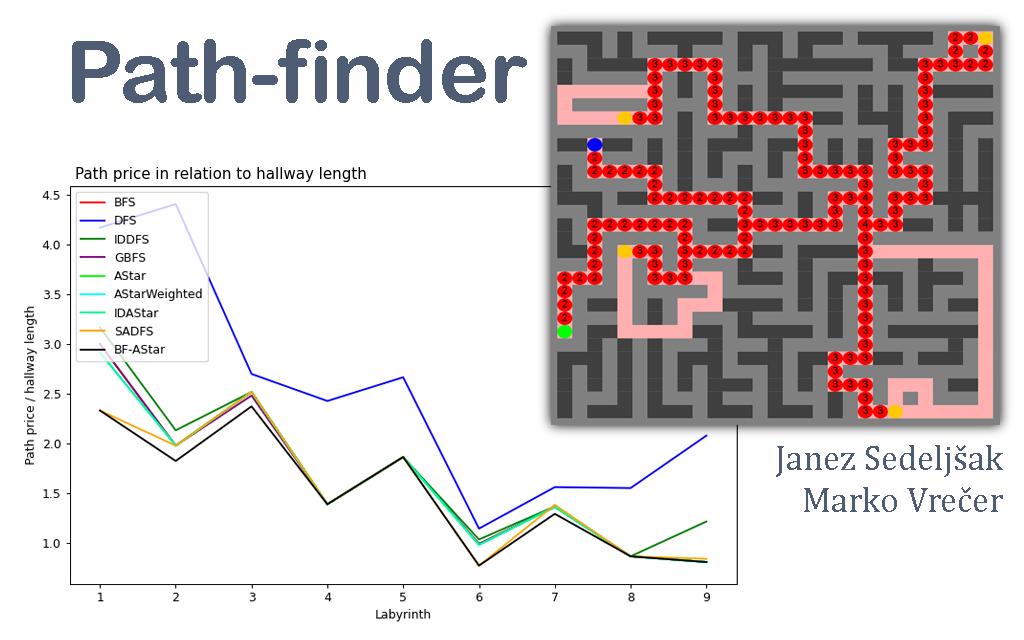
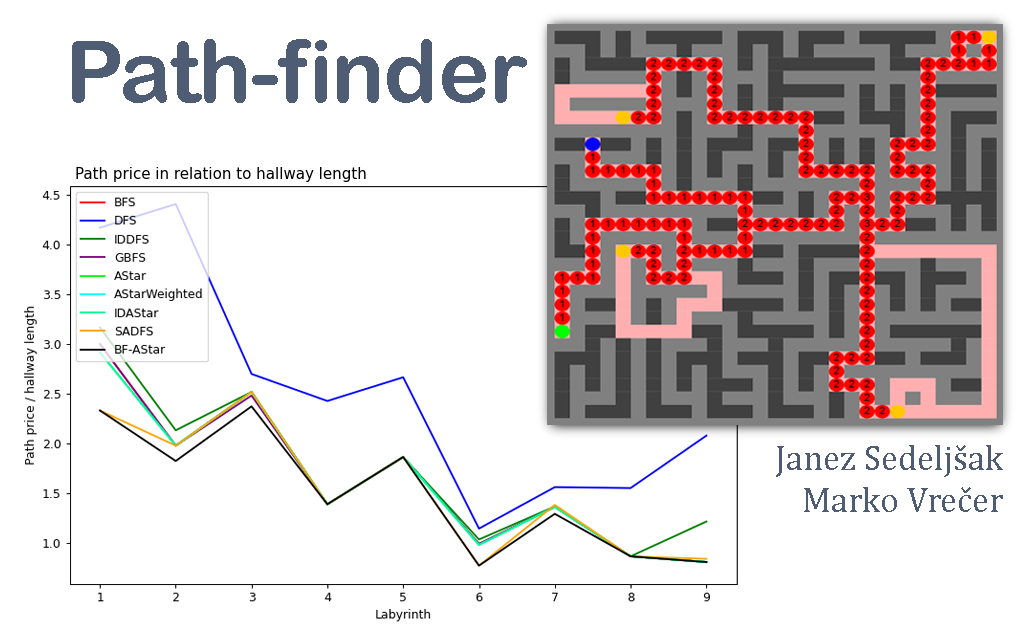
fix -> draw correct value in animation

Changed region(s): [[0.5312, 0.0312, 1.0, 0.6562]]

diff --git a/Core/Labyrinth.java b/Core/Labyrinth.java
@@ -243,13 +243,13 @@ public class Labyrinth extends JFrame {
         }
     }
 
-    public void drawCircleSTD(int x, int y) {
+    public void drawCircleSTD(int x, int y, boolean addOne) {
         if (isAnimated) {
             if (this.data[y][x] > 0) {
                 StdDraw.setPenColor(Color.RED);
                 StdDraw.filledCircle(x, y, 0.5);
                 StdDraw.setPenColor(Color.BLACK);
-                StdDraw.text(x, y, (Solution.foundPath[y][x] + 1) + "");
+                StdDraw.text(x, y, (Solution.foundPath[y][x] + (addOne ? 1 : 0)) + "");
                 StdDraw.show();
                 StdDraw.pause(animationDelay);
             }

diff --git a/Algorithms/AStar.java b/Algorithms/AStar.java
@@ -53,7 +53,7 @@ public class AStar {
 
         Solution.appendSolutionPath(best);
         for (Point p: best) {
-            lab.drawCircleSTD(p.x, p.y);
+            lab.drawCircleSTD(p.x, p.y, false);
         }
 	}
 
@@ -128,7 +128,7 @@ public class AStar {
                     curNode = from.get(curNode);
                     if (curNode != null) {
                         if (!bruteForce) {
-                            lab.drawCircleSTD(curNode.x, curNode.y);
+                            lab.drawCircleSTD(curNode.x, curNode.y, true);
                         }
                     } else {
                         break;                        

diff --git a/Algorithms/GBFS.java b/Algorithms/GBFS.java
@@ -60,7 +60,7 @@ public class GBFS {
                     path.addFirst(curNode);
                     curNode = from.get(curNode);
                     if (curNode != null) {
-                        lab.drawCircleSTD(curNode.x, curNode.y);
+                        lab.drawCircleSTD(curNode.x, curNode.y, true);
                     } else {
                         break;
                     }

diff --git a/Algorithms/IDAStar.java b/Algorithms/IDAStar.java
@@ -65,7 +65,7 @@ public class IDAStar {
             if (found) {
                 for (int i = 0; i < path.size(); i++) {
                     Point curNode = path.get(i);
-                    searchLab.drawCircleSTD(curNode.x, curNode.y);
+                    searchLab.drawCircleSTD(curNode.x, curNode.y, true);
                 }
                 
                 Collections.reverse(path);

diff --git a/Algorithms/BFS.java b/Algorithms/BFS.java
@@ -42,7 +42,7 @@ public class BFS {
                     path.addFirst(curNode);
                     curNode = from.get(curNode);
                     if (curNode != null) {
-                        lab.drawCircleSTD(curNode.x, curNode.y);
+                        lab.drawCircleSTD(curNode.x, curNode.y, true);
                     }
                     else
                         break;

diff --git a/Algorithms/DFS.java b/Algorithms/DFS.java
@@ -42,7 +42,7 @@ public class DFS {
                     path.addFirst(curNode);
                     curNode = from.get(curNode);
                     if (curNode != null) {
-                        lab.drawCircleSTD(curNode.x, curNode.y);
+                        lab.drawCircleSTD(curNode.x, curNode.y, true);
                     }
                     else
                         break;

diff --git a/Algorithms/SimulatedAnnealingDFS.java b/Algorithms/SimulatedAnnealingDFS.java
@@ -58,7 +58,7 @@ public class SimulatedAnnealingDFS {
         goals.remove(goal);
         Solution.appendSolutionPath(best.second);
         for (Point p: best.second) {
-            lab.drawCircleSTD(p.x, p.y);
+            lab.drawCircleSTD(p.x, p.y, false);
         }
         
     }

diff --git a/Algorithms/IDDFS.java b/Algorithms/IDDFS.java
@@ -43,7 +43,7 @@ public class IDDFS {
 						path.addFirst(curNode);
 						curNode = from.get(curNode);
 						if (curNode != null) {
-							lab.drawCircleSTD(curNode.x, curNode.y);
+							lab.drawCircleSTD(curNode.x, curNode.y, true);
 						} else
 							break;
 					}
